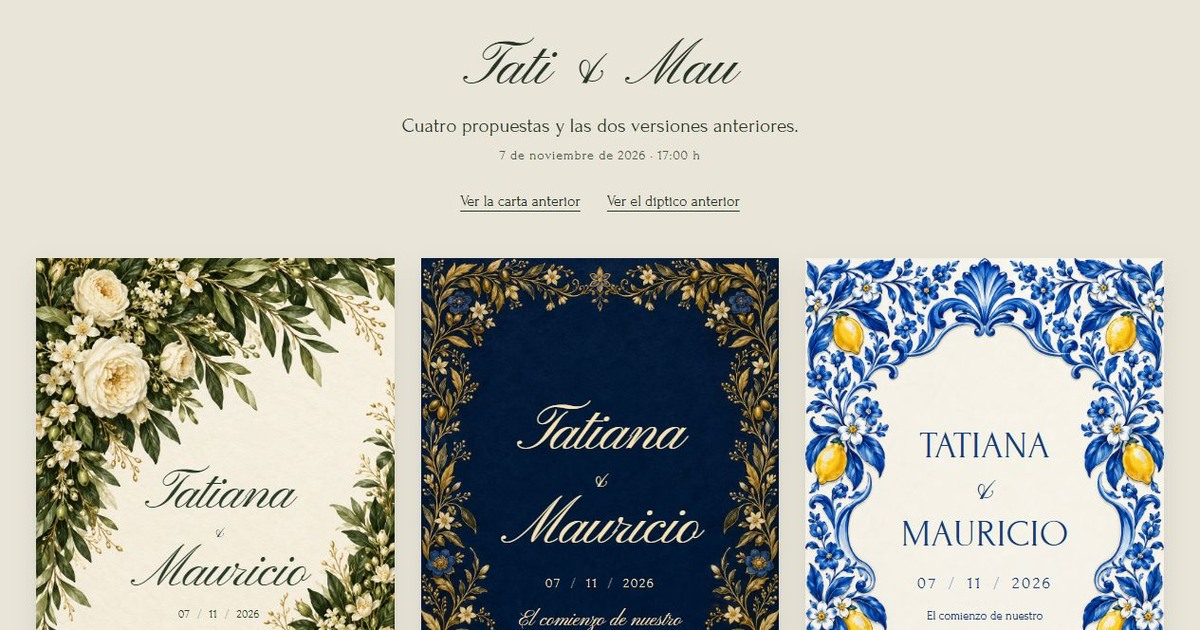
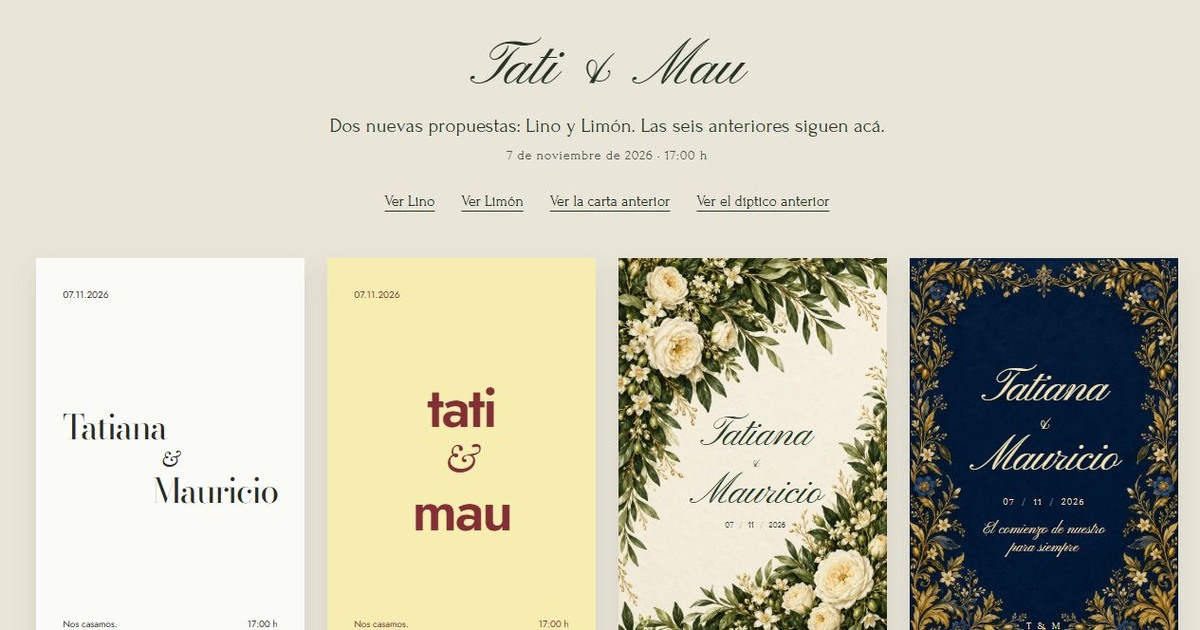
Agregar Lino y Limón y ampliar la galería a ocho opciones

diff --git a/modern.css b/modern.css
@@ -1,0 +1,172 @@
+@font-face{font-family:Bodoni;src:url(fonts/bodoni-moda.woff2) format('woff2');font-weight:400 700;font-display:swap}
+@font-face{font-family:CaslonItalic;src:url(fonts/libre-caslon-text-italic.woff2) format('woff2');font-display:swap}
+
+.modern{--paper:#fafaf7;--ink:#292b29;--muted:#646660;--gold:#292b29;--soft:#eeefe9;--line:#d6d7cf;background:var(--paper);color:var(--ink);font:400 16px/1.6 Jost,sans-serif;scrollbar-color:var(--ink) var(--paper)}
+.modern-limon{--paper:#f8edb1;--ink:#842f36;--muted:#854e48;--gold:#842f36;--soft:#fff9e5;--line:#842f3640}
+.modern ::selection{background:var(--ink);color:var(--paper)}
+.modern :is(input,textarea){caret-color:var(--ink)}
+.modern :focus-visible{outline:2px solid var(--ink);outline-offset:5px}
+.modern main:focus{outline:0}
+.modern h1,.modern h2,.modern h3{font-family:Bodoni,Georgia,serif;font-weight:400;letter-spacing:-.025em;line-height:1.1;text-wrap:balance}
+.modern h2{font-size:clamp(34px,4.2vw,56px);margin:0 0 24px}
+.modern p{line-height:1.65}
+.modern-nav{display:flex;align-items:center;justify-content:space-between;max-width:1120px;padding:30px 48px;margin:auto;font-size:14px}
+.modern-nav>span{font:24px Bodoni,serif;letter-spacing:-.04em}
+.modern-nav>div{display:flex;gap:26px}
+.modern-nav a{display:inline-flex;align-items:center;min-height:44px;text-decoration:none}
+.modern-nav a:hover{text-decoration:underline;text-underline-offset:5px}
+.modern-hero{max-width:1120px;min-height:min(780px,calc(100svh - 110px));padding:65px 48px 35px;margin:auto;display:flex;flex-direction:column;justify-content:center}
+.modern-names{font:400 clamp(62px,8.4vw,96px)/1.06 Bodoni,Georgia,serif;letter-spacing:-.04em;display:grid;grid-template-columns:1fr auto 1fr;align-items:center;margin:0;width:100%;text-wrap:nowrap}
+.modern-names>span:first-child{grid-column:1/3;justify-self:start}
+.modern-names>span:last-child{grid-column:2/4;justify-self:end}
+.modern-names>i{grid-column:2;grid-row:2;font:400 .6em/1.1 CaslonItalic,Georgia,serif;letter-spacing:0;margin:3px 0}
+.modern-hero .hero-bottom{display:flex;justify-content:space-between;align-items:end;gap:35px;margin-top:65px;font-size:16px}
+.modern-hero .hero-bottom p{margin:0}
+.modern-hero .hero-bottom p:first-child{font:22px/1.55 CaslonItalic,Georgia,serif}
+.modern-hero .hero-bottom p:last-child{text-align:right}
+.read-on{display:flex;align-items:center;gap:12px;align-self:flex-start;margin-top:35px;min-height:44px;font-size:13px;text-underline-offset:5px}
+.read-on svg{width:18px;height:18px;fill:none;stroke:currentColor;stroke-width:1.2}
+.modern-content{max-width:1120px;margin:auto}
+.modern-content>.personalized{margin:0;padding:20px 48px}
+.content-section{display:grid;grid-template-columns:1fr 1fr;gap:48px;align-items:center;padding:90px 48px}
+.content-section p{max-width:34ch;margin:0 0 20px}
+.date-section{border-top:1px solid var(--line)}
+.date-block{justify-self:end;min-width:275px}
+.date-block .date-display{font:400 clamp(42px,5vw,66px)/1.2 Bodoni,serif;letter-spacing:-.035em;white-space:nowrap}
+.place-section{background:var(--soft)}
+.modern-address{font:30px/1.4 Jost,sans-serif!important}
+.modern .map-reference{font-size:13px;color:var(--muted);margin:18px 0 0;max-width:none}
+.modern .btn{min-height:50px;border-radius:0;padding:13px 24px;font:400 14px Jost,sans-serif;letter-spacing:0;background:var(--ink);color:var(--paper);border-color:var(--ink);transition:background .2s,color .2s}
+.modern .btn:hover{background:var(--paper);color:var(--ink)}
+.modern .text-btn{font-size:15px;letter-spacing:0;padding:12px 0;text-decoration-thickness:1px;text-underline-offset:6px}
+.dress-section{padding-bottom:65px}
+.dress-section>.text-btn{justify-self:end}
+.modern .gifts{padding:30px 48px 90px}
+.modern .gifts h2{font-size:34px}
+.modern .gifts>p{max-width:50ch}
+.gift-fold{max-width:560px;margin-top:30px}
+.gift-fold summary{min-height:56px;border-top:1px solid var(--line);border-bottom:1px solid var(--line);display:flex;align-items:center;justify-content:space-between;gap:18px;list-style:none;cursor:pointer;font-size:15px}
+.gift-fold summary::-webkit-details-marker{display:none}
+.gift-fold summary svg{width:18px;height:18px;fill:none;stroke:currentColor;stroke-width:1.4;flex-shrink:0;transition:transform .2s}
+.gift-fold[open] summary svg{transform:rotate(180deg)}
+.gift-inside{padding:22px 0 0}
+.gift-inside>p{font-size:15px}
+.modern .bank-data{max-width:none;margin:25px 0;font-size:15px}
+.modern .bank-buttons{justify-content:start}
+.modern .bank-buttons button{border-color:var(--ink);font-size:14px}
+.modern-count{text-align:center;padding:65px 48px;background:var(--soft)}
+.modern-count h2{font-size:30px;margin-bottom:30px}
+.modern .countdown{gap:35px}
+.modern .countdown strong{font:400 44px/1.2 Jost,sans-serif;letter-spacing:-.03em}
+.modern .countdown span{font-size:12px;letter-spacing:0}
+.modern-response{text-align:center;padding:110px 48px}
+.modern-response h2{font-size:clamp(48px,6vw,72px)}
+.modern-response>p{max-width:37ch;margin:0 auto 28px}
+.modern-response .response-note{font-size:13px;color:var(--muted);margin:20px auto 0}
+.modern-footer{padding:40px 48px 85px;max-width:1120px;margin:auto;text-align:left;border-top:1px solid var(--line)}
+.modern-footer>p{font:26px CaslonItalic,serif;margin:0 0 25px}
+.modern-footer>div{display:flex;flex-wrap:wrap;align-items:center;gap:10px 24px}
+.modern-footer :is(a,button){display:inline-flex;align-items:center;min-height:44px;font:13px Jost,sans-serif;text-underline-offset:5px}
+.modern-footer a{margin-left:auto}
+.modern .audio-toggle{width:46px;height:46px;right:18px;bottom:18px;background:var(--ink);color:var(--paper);border:1px solid var(--paper);box-shadow:none}
+.modern .toast{border:0;max-width:min(90vw,500px)}
+.modern dialog{border:1px solid var(--line);box-shadow:0 18px 60px #0002;padding:45px 30px 30px}
+.modern dialog::backdrop{background:#16161666;backdrop-filter:none}
+.modern dialog h2{font-size:36px;margin-bottom:20px}
+.modern dialog .close{display:grid;place-items:center;width:44px;height:44px;right:8px;top:5px}
+.modern dialog .close svg{width:20px;height:20px;fill:none;stroke:currentColor;stroke-width:1.5}
+.modern dialog :is(input,select,textarea){font:16px/1.5 Jost,sans-serif!important;border:1px solid var(--muted)!important;color:var(--ink);background:var(--paper);min-height:48px}
+.modern dialog label{font-size:14px}
+.modern dialog .field-note{font-size:13px}
+.modern .wardrobe{margin:25px 0 18px}
+.modern .wardrobe img{width:100%;height:auto}
+.modern .wardrobe-opening{display:none}
+.modern .look-picker{display:grid;grid-template-columns:1fr 1fr;gap:8px;margin-bottom:22px}
+.modern .look-picker button{min-height:44px;border:1px solid var(--line);background:transparent;color:var(--ink);padding:8px;font-size:14px}
+.modern .look-picker button[aria-pressed=true]{background:var(--ink);color:var(--paper)}
+.modern .dress-note{font-size:13px;color:var(--muted)}
+.modern .original-dialog{padding:48px 12px 12px}
+
+/* One user-triggered opening. Reading content is visible before JS initializes. */
+.modern .intro{display:none;position:fixed;inset:0;z-index:60;background:var(--paper);overflow:hidden}
+.modern.js-ready .intro{display:block}
+.modern.js-ready:not(.is-open){overflow:hidden}
+.modern.js-ready:not(.is-open):not(.is-opening) main{visibility:hidden;opacity:0}
+.intro-paper{position:absolute;inset:0;background:var(--paper);display:flex;flex-direction:column;justify-content:center;padding:50px max(48px,calc((100vw - 1024px)/2));transform-origin:50% 0}
+.intro-top,.intro-bottom{display:flex;justify-content:space-between;align-items:center;gap:25px;font-size:14px}
+.intro-top{margin-bottom:55px}
+.intro-bottom{margin-top:55px}
+.intro-bottom p{margin:0;font:20px/1.5 CaslonItalic,serif}
+.modern .skip-opening{position:fixed;right:20px;bottom:20px;padding:10px 15px;min-height:44px;border:0;background:var(--ink);color:var(--paper);font-size:13px;z-index:70}
+.modern.is-opening .intro{background:transparent;pointer-events:none}
+.modern.is-opening .intro-paper{animation:paper-lift 1.8s cubic-bezier(.65,0,.2,1) both}
+.modern.is-opening main{animation:reading-arrives .7s .6s both}
+.modern.is-opening .audio-toggle{visibility:hidden}
+@keyframes paper-lift{0%,12%{transform:translateY(0);opacity:1}85%{opacity:1}100%{transform:translateY(-110%);opacity:0}}
+@keyframes reading-arrives{from{opacity:0}to{opacity:1}}
+
+/* Limón is a flat printed poster with a different rhythm and type voice. */
+.modern-limon .modern-names{font:600 clamp(68px,10vw,96px)/.98 Jost,sans-serif;letter-spacing:-.04em;text-transform:lowercase}
+.modern-limon .modern-names>span:first-child{grid-column:1/3}
+.modern-limon .modern-names>i{font-family:CaslonItalic,serif;font-size:.66em;line-height:1.15}
+.modern-limon h2{font-family:Jost,sans-serif;font-weight:500;letter-spacing:-.035em}
+.modern-limon .modern-nav>span{font-family:Jost,sans-serif;font-weight:500}
+.modern-limon .modern-hero{min-height:min(750px,calc(100svh - 105px));padding-top:30px}
+.modern-limon .modern-count{background:var(--ink);color:var(--paper);padding:45px 48px}
+.modern-limon .modern-count h2{font-size:25px;font-weight:400}
+.modern-limon .date-section{border:0;padding-top:100px}
+.modern-limon .date-display{font:500 clamp(44px,5vw,66px)/1.2 Jost,sans-serif;letter-spacing:-.04em}
+.modern-limon .place-section{background:var(--soft)}
+.modern-limon .modern-response{background:var(--ink);color:var(--paper);--gold:#f8edb1}
+.modern-limon .modern-response .btn{background:var(--paper);color:var(--ink);border-color:var(--paper)}
+.modern-limon .modern-response .btn:hover{background:transparent;color:var(--paper)}
+.modern-limon .modern-response .response-note{color:#f8edb1}
+.modern-limon .modern-response :focus-visible{outline-color:var(--paper)}
+.modern-limon .modern-footer{border-top:0}
+.modern-limon.is-opening .intro-paper{animation-name:poster-lift}
+@keyframes poster-lift{0%,12%{transform:translateY(0) rotate(0);opacity:1}85%{opacity:1}100%{transform:translateY(-120%) rotate(-5deg);opacity:0}}
+
+/* The menu previews use the same type and palette as the real covers. */
+.modern-preview{container-type:inline-size;aspect-ratio:2/3;padding:11% 10%;display:flex;flex-direction:column;justify-content:space-between;background:#fafaf7;color:#292b29}
+.modern-preview .modern-names{font-size:15.8cqw;line-height:1.05}
+.mini-date{font:4.4cqw Jost,sans-serif}
+.mini-footer{display:flex;justify-content:space-between;font:4.3cqw Jost,sans-serif;gap:8px}
+.mini-limon{background:#f8edb1;color:#842f36}
+.mini-limon .modern-names{font:600 26cqw/.98 Jost,sans-serif;letter-spacing:-.04em;text-transform:lowercase}
+.mini-limon .modern-names>i{font:400 .66em/1.15 CaslonItalic,serif}
+
+@media(min-width:1001px){.gallery .choices{grid-template-columns:repeat(4,minmax(0,1fr));gap:40px 24px}}
+@media(max-width:700px){
+ .modern-nav{padding:18px 24px}.modern-nav>div{gap:20px}
+ .modern-hero{padding:35px 24px 30px;min-height:calc(100svh - 80px)}
+ .modern-names{font-size:clamp(52px,15.8vw,76px)}
+ .modern-hero .hero-bottom{margin-top:50px;align-items:start;gap:20px;font-size:14px}
+ .modern-hero .hero-bottom p:first-child{font-size:18px}
+ .modern-hero .hero-bottom p:last-child{max-width:155px}
+ .content-section{grid-template-columns:1fr;gap:35px;padding:65px 24px}
+ .date-block{justify-self:start;min-width:0}.date-block .date-display{font-size:52px}
+ .modern h2{font-size:38px}.modern p{font-size:16px}
+ .modern .map-reference{font-size:13px}
+ .dress-section>.text-btn{justify-self:start}.dress-section{gap:5px;padding-bottom:35px}
+ .modern .gifts{padding:30px 24px 65px}.modern .gifts h2{font-size:32px}
+ .modern-count{padding:45px 24px}.modern-count h2{font-size:27px}
+ .modern .countdown{gap:21px}.modern .countdown>div{min-width:40px}.modern .countdown strong{font-size:32px}
+ .modern-response{padding:75px 24px}.modern-response h2{font-size:50px}.modern-response .response-note{font-size:13px}
+ .modern-footer{padding:35px 24px 90px}.modern-footer>div{gap:7px 22px}.modern-footer a{margin-left:0}.modern-footer>p{font-size:24px}
+ .intro-paper{padding:30px 24px}.intro-top{margin-bottom:50px;font-size:13px}.intro-bottom{margin-top:50px;align-items:start;flex-direction:column;gap:25px}.intro-bottom p{font-size:18px}
+ .modern-limon .modern-names{font-size:clamp(72px,22vw,96px)}
+ .modern-limon .modern-hero{min-height:calc(100svh - 80px)}
+ .modern-limon .modern-count{padding:40px 24px}.modern-limon .date-section{padding-top:65px}
+ .modern dialog{padding:45px 24px 24px}.modern dialog h2{font-size:32px}
+}
+@media(max-height:660px){.intro-paper{padding-top:20px;padding-bottom:20px}.intro-top{margin-bottom:25px}.intro-bottom{margin-top:25px;gap:15px}.intro-paper .modern-names{font-size:clamp(48px,13vw,76px)}.modern-limon .intro-paper .modern-names{font-size:clamp(62px,18vw,84px)}}
+@media(prefers-reduced-motion:reduce){.modern *, .modern *::before,.modern *::after{scroll-behavior:auto!important;transition:none!important}.modern.is-opening .intro-paper{animation:reading-arrives .2s reverse both}.modern.is-opening main{animation:reading-arrives .2s both}.gift-fold[open] summary svg{transform:none}}
+.modern .skip-opening{pointer-events:auto}
+
+.modern.js-ready:not(.is-open) .audio-toggle{visibility:hidden}
+.modern-limon .modern-names{display:flex;justify-content:center;align-items:baseline;gap:28px}
+.modern-limon .modern-names>i{margin:0}
+.modern-limon .modern-hero .hero-bottom{margin-top:75px}
+.mini-limon .modern-names{display:flex;flex-direction:column;align-items:center;gap:0}
+@media(max-width:700px){.modern-limon .modern-names{flex-direction:column;align-items:center;gap:0}.modern-limon .modern-hero .hero-bottom{margin-top:45px}}
+.modern .personalized{overflow-wrap:anywhere}.intro-top [data-guest]{max-width:calc(100% - 105px);overflow-wrap:anywhere}.intro-top>span:last-child{flex-shrink:0}

diff --git a/index.html b/index.html
@@ -1,1 +1,1 @@
-<!doctype html><html lang="es"><head><meta charset="utf-8"><meta name="viewport" content="width=device-width,initial-scale=1"><title>Tati &amp; Mau · Seis opciones para comparar</title><link rel="icon" href="data:,"><link rel="stylesheet" href="shared.css?v=11"><link rel="stylesheet" href="invitation.css?v=11"><link rel="stylesheet" href="gallery.css?v=11"><link rel="canonical" href="https://dakuka.github.io/tati-y-mau/"><meta property="og:url" content="https://dakuka.github.io/tati-y-mau/"><meta property="og:type" content="website"><meta property="og:title" content="Tati y Mau · Nuestra boda"><meta property="og:description" content="7 de noviembre de 2026, 17:00. Abrí la invitación."><meta property="og:image" content="https://dakuka.github.io/tati-y-mau/assets/og.jpg"><meta property="og:image:width" content="1200"><meta property="og:image:height" content="630"><meta name="twitter:card" content="summary_large_image"></head><body class="gallery"><main class="chooser"><header class="gallery-heading"><h1>Tati &amp; Mau</h1><p>Cuatro propuestas y las dos versiones anteriores.</p><span>7 de noviembre de 2026 · 17:00 h</span><nav class="version-links" aria-label="Versiones anteriores"><a href="anteriores/botanica/">Ver la carta anterior</a><a href="anteriores/nocturna/">Ver el díptico anterior</a></nav></header><div class="choices"><article class="choice theme-garden"><a class="preview" href="botanica/?v=11" aria-label="Abrir Jardín de olivos"><header class="hero"><div class="hero-copy"><h2 class="couple"><span>Tatiana</span><i>&amp;</i><span>Mauricio</span></h2><p class="hero-date">07 <span>/</span> 11 <span>/</span> 2026</p><p class="hero-whisper">El comienzo de nuestro<br>para siempre</p></div><span class="hero-bottom" aria-hidden="true">T &amp; M</span></header></a><div class="choice-info"><h2>Jardín de olivos</h2><p>Sobre verde, flores blancas y una carta que sale a tu encuentro.</p><a class="choice-link" href="botanica/?v=11">Abrir invitación <svg viewBox="0 0 24 24" aria-hidden="true"><path d="M4 12h15m-6-6 6 6-6 6"/></svg></a></div></article><article class="choice theme-night"><a class="preview" href="nocturna/?v=11" aria-label="Abrir Noche azul y oro"><header class="hero"><div class="hero-copy"><h2 class="couple"><span>Tatiana</span><i>&amp;</i><span>Mauricio</span></h2><p class="hero-date">07 <span>/</span> 11 <span>/</span> 2026</p><p class="hero-whisper">El comienzo de nuestro<br>para siempre</p></div><span class="hero-bottom" aria-hidden="true">T &amp; M</span></header></a><div class="choice-info"><h2>Noche azul y oro</h2><p>Dos tapas doradas se abren sobre un jardín azul profundo.</p><a class="choice-link" href="nocturna/?v=11">Abrir invitación <svg viewBox="0 0 24 24" aria-hidden="true"><path d="M4 12h15m-6-6 6 6-6 6"/></svg></a></div></article><article class="choice theme-blue"><a class="preview" href="azulejo/?v=11" aria-label="Abrir Azul cerámica"><header class="hero"><div class="hero-copy"><h2 class="couple"><span>Tatiana</span><i>&amp;</i><span>Mauricio</span></h2><p class="hero-date">07 <span>/</span> 11 <span>/</span> 2026</p><p class="hero-whisper">El comienzo de nuestro<br>para siempre</p></div><span class="hero-bottom" aria-hidden="true">T &amp; M</span></header></a><div class="choice-info"><h2>Azul cerámica</h2><p>Un mosaico que se despliega entre flores azules y limones.</p><a class="choice-link" href="azulejo/?v=11">Abrir invitación <svg viewBox="0 0 24 24" aria-hidden="true"><path d="M4 12h15m-6-6 6 6-6 6"/></svg></a></div></article><article class="choice theme-rose"><a class="preview" href="rosas/?v=11" aria-label="Abrir Vino y rosas"><header class="hero"><div class="hero-copy"><h2 class="couple"><span>Tatiana</span><i>&amp;</i><span>Mauricio</span></h2><p class="hero-date">07 <span>/</span> 11 <span>/</span> 2026</p><p class="hero-whisper">El comienzo de nuestro<br>para siempre</p></div><span class="hero-bottom" aria-hidden="true">T &amp; M</span></header></a><div class="choice-info"><h2>Vino y rosas</h2><p>Una cinta rosa guarda una invitación de flores y color borgoña.</p><a class="choice-link" href="rosas/?v=11">Abrir invitación <svg viewBox="0 0 24 24" aria-hidden="true"><path d="M4 12h15m-6-6 6 6-6 6"/></svg></a></div></article><article class="choice previous" id="anterior-botanica"><a class="preview old-preview" href="anteriores/botanica/" aria-label="Abrir La carta original"><iframe src="anteriores/botanica/?silencio=1" title="Vista de La carta original" loading="lazy" tabindex="-1" aria-hidden="true"></iframe></a><div class="choice-info"><h2>La carta original</h2><p>La versión anterior, con el arte del PDF y su sobre verde.</p><a class="choice-link" href="anteriores/botanica/">Abrir versión anterior</a></div></article><article class="choice previous" id="anterior-nocturna"><a class="preview old-preview" href="anteriores/nocturna/" aria-label="Abrir El díptico original"><iframe src="anteriores/nocturna/?silencio=1" title="Vista de El díptico original" loading="lazy" tabindex="-1" aria-hidden="true"></iframe></a><div class="choice-info"><h2>El díptico original</h2><p>La versión anterior de papel claro, con sus dos tapas.</p><a class="choice-link" href="anteriores/nocturna/">Abrir versión anterior</a></div></article></div><p class="gallery-note">Pruebas de diseño para comparar. Abrí cada una para descubrir su animación. La música empieza al tocar la invitación y se puede pausar.</p></main></body></html>
+<!doctype html><html lang="es"><head><meta charset="utf-8"><meta name="viewport" content="width=device-width,initial-scale=1"><title>Tati &amp; Mau · Ocho opciones para comparar</title><link rel="icon" href="data:,"><link rel="stylesheet" href="shared.css?v=11"><link rel="stylesheet" href="invitation.css?v=11"><link rel="stylesheet" href="gallery.css?v=11"><link rel="stylesheet" href="modern.css?v=12"><link rel="canonical" href="https://dakuka.github.io/tati-y-mau/"><meta property="og:url" content="https://dakuka.github.io/tati-y-mau/"><meta property="og:type" content="website"><meta property="og:title" content="Tati y Mau · Nuestra boda"><meta property="og:description" content="7 de noviembre de 2026, 17:00. Abrí la invitación."><meta property="og:image" content="https://dakuka.github.io/tati-y-mau/assets/og.jpg"><meta property="og:image:width" content="1200"><meta property="og:image:height" content="630"><meta name="twitter:card" content="summary_large_image"></head><body class="gallery"><main class="chooser"><header class="gallery-heading"><h1>Tati &amp; Mau</h1><p>Dos nuevas propuestas: Lino y Limón. Las seis anteriores siguen acá.</p><span>7 de noviembre de 2026 · 17:00 h</span><nav class="version-links" aria-label="Elegí una invitación"><a href="lino/?v=12">Ver Lino</a><a href="limon/?v=12">Ver Limón</a><a href="anteriores/botanica/">Ver la carta anterior</a><a href="anteriores/nocturna/">Ver el díptico anterior</a></nav></header><div class="choices"><article class="choice"><a class="preview" href="lino/?v=12" aria-label="Abrir Lino"><div class="modern-preview mini-lino"><span class="mini-date">07.11.2026</span><div class="modern-names"><span>Tatiana</span><i>&amp;</i><span>Mauricio</span></div><span class="mini-footer"><span>Nos casamos.</span><span>17:00 h</span></span></div></a><div class="choice-info"><h2>Lino</h2><p>Blanco, tinta negra y tipografía editorial. Una invitación que respira.</p><a class="choice-link" href="lino/?v=12">Abrir invitación</a></div></article><article class="choice"><a class="preview" href="limon/?v=12" aria-label="Abrir Limón"><div class="modern-preview mini-limon"><span class="mini-date">07.11.2026</span><div class="modern-names"><span>Tati</span><i>&amp;</i><span>Mau</span></div><span class="mini-footer"><span>Nos casamos.</span><span>17:00 h</span></span></div></a><div class="choice-info"><h2>Limón</h2><p>Amarillo suave, tinta cereza y una composición gráfica para celebrar.</p><a class="choice-link" href="limon/?v=12">Abrir invitación</a></div></article><article class="choice theme-garden"><a class="preview" href="botanica/?v=11" aria-label="Abrir Jardín de olivos"><header class="hero"><div class="hero-copy"><h2 class="couple"><span>Tatiana</span><i>&amp;</i><span>Mauricio</span></h2><p class="hero-date">07 <span>/</span> 11 <span>/</span> 2026</p><p class="hero-whisper">El comienzo de nuestro<br>para siempre</p></div><span class="hero-bottom" aria-hidden="true">T &amp; M</span></header></a><div class="choice-info"><h2>Jardín de olivos</h2><p>Sobre verde, flores blancas y una carta que sale a tu encuentro.</p><a class="choice-link" href="botanica/?v=11">Abrir invitación <svg viewBox="0 0 24 24" aria-hidden="true"><path d="M4 12h15m-6-6 6 6-6 6"/></svg></a></div></article><article class="choice theme-night"><a class="preview" href="nocturna/?v=11" aria-label="Abrir Noche azul y oro"><header class="hero"><div class="hero-copy"><h2 class="couple"><span>Tatiana</span><i>&amp;</i><span>Mauricio</span></h2><p class="hero-date">07 <span>/</span> 11 <span>/</span> 2026</p><p class="hero-whisper">El comienzo de nuestro<br>para siempre</p></div><span class="hero-bottom" aria-hidden="true">T &amp; M</span></header></a><div class="choice-info"><h2>Noche azul y oro</h2><p>Dos tapas doradas se abren sobre un jardín azul profundo.</p><a class="choice-link" href="nocturna/?v=11">Abrir invitación <svg viewBox="0 0 24 24" aria-hidden="true"><path d="M4 12h15m-6-6 6 6-6 6"/></svg></a></div></article><article class="choice theme-blue"><a class="preview" href="azulejo/?v=11" aria-label="Abrir Azul cerámica"><header class="hero"><div class="hero-copy"><h2 class="couple"><span>Tatiana</span><i>&amp;</i><span>Mauricio</span></h2><p class="hero-date">07 <span>/</span> 11 <span>/</span> 2026</p><p class="hero-whisper">El comienzo de nuestro<br>para siempre</p></div><span class="hero-bottom" aria-hidden="true">T &amp; M</span></header></a><div class="choice-info"><h2>Azul cerámica</h2><p>Un mosaico que se despliega entre flores azules y limones.</p><a class="choice-link" href="azulejo/?v=11">Abrir invitación <svg viewBox="0 0 24 24" aria-hidden="true"><path d="M4 12h15m-6-6 6 6-6 6"/></svg></a></div></article><article class="choice theme-rose"><a class="preview" href="rosas/?v=11" aria-label="Abrir Vino y rosas"><header class="hero"><div class="hero-copy"><h2 class="couple"><span>Tatiana</span><i>&amp;</i><span>Mauricio</span></h2><p class="hero-date">07 <span>/</span> 11 <span>/</span> 2026</p><p class="hero-whisper">El comienzo de nuestro<br>para siempre</p></div><span class="hero-bottom" aria-hidden="true">T &amp; M</span></header></a><div class="choice-info"><h2>Vino y rosas</h2><p>Una cinta rosa guarda una invitación de flores y color borgoña.</p><a class="choice-link" href="rosas/?v=11">Abrir invitación <svg viewBox="0 0 24 24" aria-hidden="true"><path d="M4 12h15m-6-6 6 6-6 6"/></svg></a></div></article><article class="choice previous" id="anterior-botanica"><a class="preview old-preview" href="anteriores/botanica/" aria-label="Abrir La carta original"><iframe src="anteriores/botanica/?silencio=1" title="Vista de La carta original" loading="lazy" tabindex="-1" aria-hidden="true"></iframe></a><div class="choice-info"><h2>La carta original</h2><p>La versión anterior, con el arte del PDF y su sobre verde.</p><a class="choice-link" href="anteriores/botanica/">Abrir versión anterior</a></div></article><article class="choice previous" id="anterior-nocturna"><a class="preview old-preview" href="anteriores/nocturna/" aria-label="Abrir El díptico original"><iframe src="anteriores/nocturna/?silencio=1" title="Vista de El díptico original" loading="lazy" tabindex="-1" aria-hidden="true"></iframe></a><div class="choice-info"><h2>El díptico original</h2><p>La versión anterior de papel claro, con sus dos tapas.</p><a class="choice-link" href="anteriores/nocturna/">Abrir versión anterior</a></div></article></div><p class="gallery-note">Pruebas de diseño para comparar. Abrí cada una para descubrir su animación. La música empieza al tocar la invitación y se puede pausar.</p></main></body></html>

diff --git a/lino/index.html b/lino/index.html
@@ -1,0 +1,1 @@
+<!doctype html><html lang="es"><head><meta charset="utf-8"><meta name="viewport" content="width=device-width,initial-scale=1,viewport-fit=cover"><title>Tati &amp; Mau · Lino</title><meta name="description" content="Nuestra boda civil. 7 de noviembre de 2026, a las 17:00. Una invitación para vos."><link rel="icon" href="data:,"><link rel="preload" href="../fonts/bodoni-moda.woff2" as="font" type="font/woff2" crossorigin><link rel="stylesheet" href="../shared.css?v=11"><link rel="stylesheet" href="../modern.css?v=12"><script defer src="../config.js?v=11"></script><script defer src="../shared.js?v=11"></script><link rel="canonical" href="https://dakuka.github.io/tati-y-mau/lino/"><meta property="og:title" content="Tati y Mau · Lino"><meta property="og:description" content="7 de noviembre de 2026, 17:00. Abrí nuestra invitación."><meta property="og:image" content="https://dakuka.github.io/tati-y-mau/assets/og-lino.jpg"><meta property="og:type" content="website"></head><body class="modern modern-lino"><a class="skip" href="#invitacion">Ir a la invitación</a><div class="intro" aria-label="Apertura de la invitación"><div class="intro-paper"><div class="intro-top"><span data-guest>Para vos, con amor.</span><span>07.11.2026</span></div><div class="modern-names"><span>Tatiana</span><i>&amp;</i><span>Mauricio</span></div><div class="intro-bottom"><p>El comienzo de nuestro<br>para siempre.</p><button class="btn" data-open aria-expanded="false">Abrir invitación</button></div></div><button class="skip-opening" data-skip hidden>Saltar apertura</button></div><main id="invitacion" tabindex="-1"><nav class="modern-nav" aria-label="La invitación"><span>T&amp;M</span><div><a href="#lugar">El lugar</a><a href="#confirmar">Confirmar</a></div></nav><header class="modern-hero"><h1 class="modern-names"><span>Tatiana</span><i>&amp;</i><span>Mauricio</span></h1><div class="hero-bottom"><p>El comienzo de nuestro<br>para siempre.</p><p>Sábado 7 de noviembre de 2026<br>17:00 h, Asunción</p></div><a class="read-on" href="#detalles">Descubrí los detalles<svg viewBox="0 0 24 24" aria-hidden="true"><path d="M12 4v15m-6-6 6 6 6-6"/></svg></a></header><div class="modern-content"><p class="personalized" data-guest hidden></p><section class="date-section content-section" id="detalles"><div><h2>Nos casamos.</h2><p>Nos encantaría que seas parte de este día tan especial.</p></div><div class="date-block"><p class="date-display">07.11.26</p><p>Sábado 7 de noviembre<br>Boda civil a las 17:00 h</p><button class="text-btn" data-calendar>Guardar en mi calendario</button></div></section><section class="place-section content-section" id="lugar"><h2>En nuestro<br>hogar.</h2><div><p class="modern-address">Castelar 779<br>c/ Venezuela</p><p>Asunción, Paraguay</p><a class="btn" data-map href="https://www.google.com/maps/search/?api=1&amp;query=Enersol+S.A.+Asuncion" target="_blank" rel="noopener">Cómo llegar</a><p class="map-reference">Referencia en el mapa: Enersol S.A.</p></div></section><section class="dress-section content-section"><div><h2>Tenida cocktail.</h2><p>Un día para vestirnos de fiesta.</p></div><button class="text-btn" data-dialog="dress">Ver ideas para vestirme</button></section><section class="gifts"><h2>Un detalle para nosotros</h2><p>Nuestro hogar ya está completo.<br>Tu presencia es lo más importante.</p><details class="gift-fold"><summary>Ver datos para un regalo<svg viewBox="0 0 24 24" aria-hidden="true"><path d="m6 9 6 6 6-6"/></svg></summary><div class="gift-inside"><p>Si deseás tener un detalle con nosotros, podés hacerlo a través de nuestra cuenta bancaria.</p><dl class="bank-data"><dt>Banco</dt><dd data-value="bank">GNB</dd><dt>Nro. de cuenta</dt><dd data-value="account">13024056002</dd><dt>Titular</dt><dd data-value="holder">Mauricio Morgenstern</dd><dt>Alias C.I.</dt><dd data-value="alias">3760586</dd></dl><div class="bank-buttons"><button data-copy="alias">Copiar alias</button><button data-copy="account">Copiar cuenta</button></div></div></details></section><section class="modern-count" aria-label="Cuenta regresiva"><h2 data-count-title>Cada vez falta menos.</h2><div class="countdown"><div><strong data-count="0">00</strong><span>días</span></div><div><strong data-count="1">00</strong><span>horas</span></div><div><strong data-count="2">00</strong><span>minutos</span></div><div><strong data-count="3">00</strong><span>segundos</span></div></div></section><section class="modern-response" id="confirmar"><h2>Te esperamos.</h2><p>Nos hace mucha ilusión compartir este día con vos.</p><button class="btn" data-dialog="rsvp">Confirmar asistencia</button><p class="response-note">Tu respuesta le llega a Mau por WhatsApp.</p></section></div><footer class="modern-footer"><p>Con amor, Tati &amp; Mau</p><div><button class="text-btn" data-replay>Repetir apertura</button><button class="text-btn" data-dialog="original">Ver invitación original</button><a href="../?v=12">Ver todas las opciones</a></div></footer></main><noscript><p>Los datos están disponibles. Activá JavaScript para la música y las confirmaciones.</p></noscript></body></html>

diff --git a/limon/index.html b/limon/index.html
@@ -1,0 +1,1 @@
+<!doctype html><html lang="es"><head><meta charset="utf-8"><meta name="viewport" content="width=device-width,initial-scale=1,viewport-fit=cover"><title>Tati &amp; Mau · Limón</title><meta name="description" content="Nuestra boda civil. 7 de noviembre de 2026, a las 17:00. Una invitación para vos."><link rel="icon" href="data:,"><link rel="preload" href="../fonts/jost.woff2" as="font" type="font/woff2" crossorigin><link rel="stylesheet" href="../shared.css?v=11"><link rel="stylesheet" href="../modern.css?v=12"><script defer src="../config.js?v=11"></script><script defer src="../shared.js?v=11"></script><link rel="canonical" href="https://dakuka.github.io/tati-y-mau/limon/"><meta property="og:title" content="Tati y Mau · Limón"><meta property="og:description" content="7 de noviembre de 2026, 17:00. Abrí nuestra invitación."><meta property="og:image" content="https://dakuka.github.io/tati-y-mau/assets/og-limon.jpg"><meta property="og:type" content="website"></head><body class="modern modern-limon"><a class="skip" href="#invitacion">Ir a la invitación</a><div class="intro" aria-label="Apertura de la invitación"><div class="intro-paper"><div class="intro-top"><span data-guest>Para vos, con amor.</span><span>07.11.2026</span></div><div class="modern-names"><span>Tati</span><i>&amp;</i><span>Mau</span></div><div class="intro-bottom"><p>El comienzo de nuestro<br>para siempre.</p><button class="btn" data-open aria-expanded="false">Abrir invitación</button></div></div><button class="skip-opening" data-skip hidden>Saltar apertura</button></div><main id="invitacion" tabindex="-1"><nav class="modern-nav" aria-label="La invitación"><span>T&amp;M</span><div><a href="#lugar">El lugar</a><a href="#confirmar">Confirmar</a></div></nav><header class="modern-hero"><h1 class="modern-names"><span>Tati</span><i>&amp;</i><span>Mau</span></h1><div class="hero-bottom"><p>El comienzo de nuestro<br>para siempre.</p><p>Sábado 7 de noviembre de 2026<br>17:00 h, Asunción</p></div><a class="read-on" href="#detalles">Descubrí los detalles<svg viewBox="0 0 24 24" aria-hidden="true"><path d="M12 4v15m-6-6 6 6 6-6"/></svg></a></header><div class="modern-content"><p class="personalized" data-guest hidden></p><section class="modern-count" aria-label="Cuenta regresiva"><h2 data-count-title>Cada vez falta menos.</h2><div class="countdown"><div><strong data-count="0">00</strong><span>días</span></div><div><strong data-count="1">00</strong><span>horas</span></div><div><strong data-count="2">00</strong><span>minutos</span></div><div><strong data-count="3">00</strong><span>segundos</span></div></div></section><section class="date-section content-section" id="detalles"><div><h2>Nos casamos.</h2><p>Nos encantaría que seas parte de este día tan especial.</p></div><div class="date-block"><p class="date-display">07.11.26</p><p>Sábado 7 de noviembre<br>Boda civil a las 17:00 h</p><button class="text-btn" data-calendar>Guardar en mi calendario</button></div></section><section class="place-section content-section" id="lugar"><h2>En nuestro<br>hogar.</h2><div><p class="modern-address">Castelar 779<br>c/ Venezuela</p><p>Asunción, Paraguay</p><a class="btn" data-map href="https://www.google.com/maps/search/?api=1&amp;query=Enersol+S.A.+Asuncion" target="_blank" rel="noopener">Cómo llegar</a><p class="map-reference">Referencia en el mapa: Enersol S.A.</p></div></section><section class="dress-section content-section"><div><h2>Tenida cocktail.</h2><p>Un día para vestirnos de fiesta.</p></div><button class="text-btn" data-dialog="dress">Ver ideas para vestirme</button></section><section class="gifts"><h2>Un detalle para nosotros</h2><p>Nuestro hogar ya está completo.<br>Tu presencia es lo más importante.</p><details class="gift-fold"><summary>Ver datos para un regalo<svg viewBox="0 0 24 24" aria-hidden="true"><path d="m6 9 6 6 6-6"/></svg></summary><div class="gift-inside"><p>Si deseás tener un detalle con nosotros, podés hacerlo a través de nuestra cuenta bancaria.</p><dl class="bank-data"><dt>Banco</dt><dd data-value="bank">GNB</dd><dt>Nro. de cuenta</dt><dd data-value="account">13024056002</dd><dt>Titular</dt><dd data-value="holder">Mauricio Morgenstern</dd><dt>Alias C.I.</dt><dd data-value="alias">3760586</dd></dl><div class="bank-buttons"><button data-copy="alias">Copiar alias</button><button data-copy="account">Copiar cuenta</button></div></div></details></section><section class="modern-response" id="confirmar"><h2>Nos vemos el 7.</h2><p>Nos hace mucha ilusión compartir este día con vos.</p><button class="btn" data-dialog="rsvp">Confirmar asistencia</button><p class="response-note">Tu respuesta le llega a Mau por WhatsApp.</p></section></div><footer class="modern-footer"><p>Con amor, Tati &amp; Mau</p><div><button class="text-btn" data-replay>Repetir apertura</button><button class="text-btn" data-dialog="original">Ver invitación original</button><a href="../?v=12">Ver todas las opciones</a></div></footer></main><noscript><p>Los datos están disponibles. Activá JavaScript para la música y las confirmaciones.</p></noscript></body></html>
